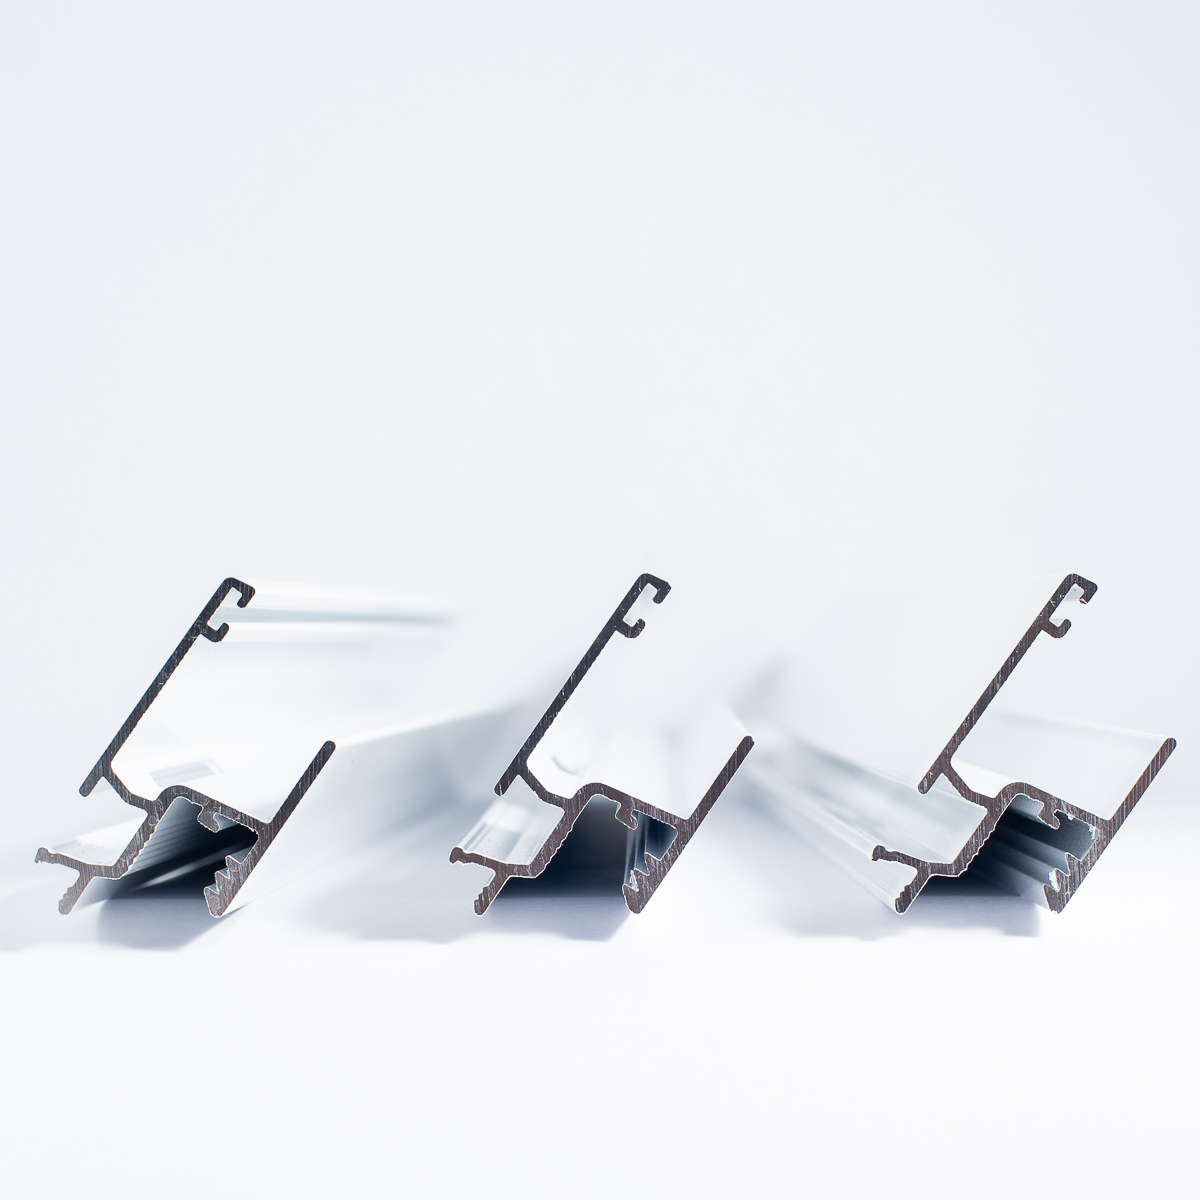
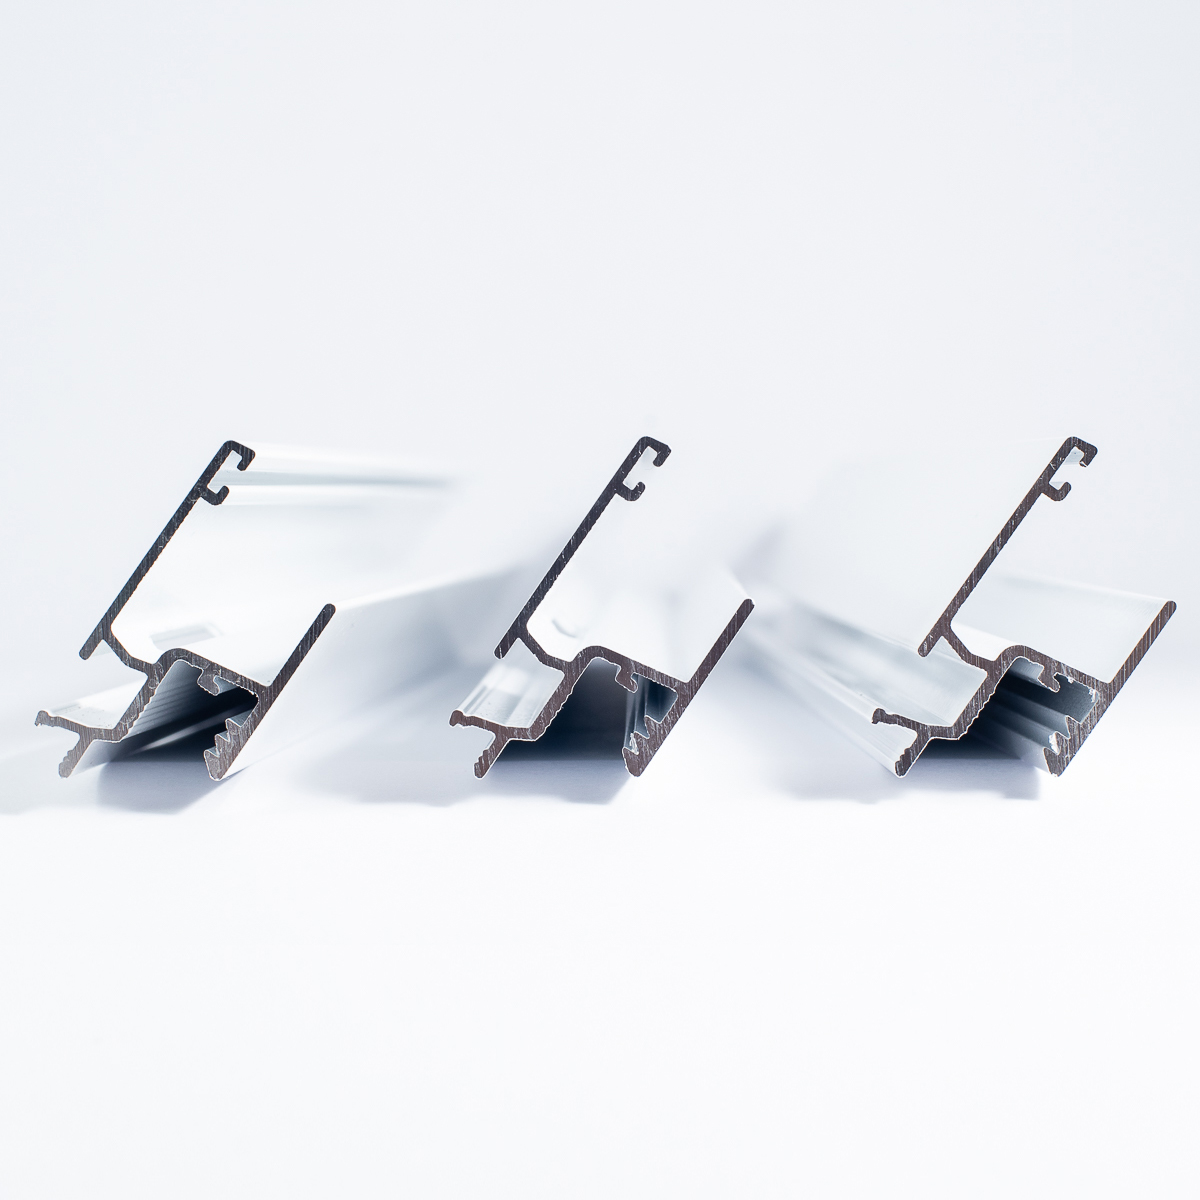
Adjust minor details

diff --git a/assets/css/style.css b/assets/css/style.css
@@ -39,6 +39,12 @@ video {
     border-top: 1px solid var(--primary-color);
 }
 
+.--accessori-theme .button {
+    border: 1px solid var(--secondary-color);
+    color: var(--secondary-color);
+    background-color: transparent;
+}
+
 .--ekotech-theme {
     background-color: var(--ekotech-color);
     color: var(--secondary-color);

diff --git a/assets/js/script.js b/assets/js/script.js
@@ -22,7 +22,7 @@ const animateFooterElements = () => {
 };
 
 const animateButtons = () => {
-  const buttons = document.querySelectorAll(".button");
+  const buttons = document.querySelectorAll(".banner .button");
   buttons.forEach(button => {
     gsap.set(button, { opacity: 0, y: 10, backgroundColor: "var(--secondary-color)", color: "var(--primary-color)" });
     const tl = gsap.timeline();